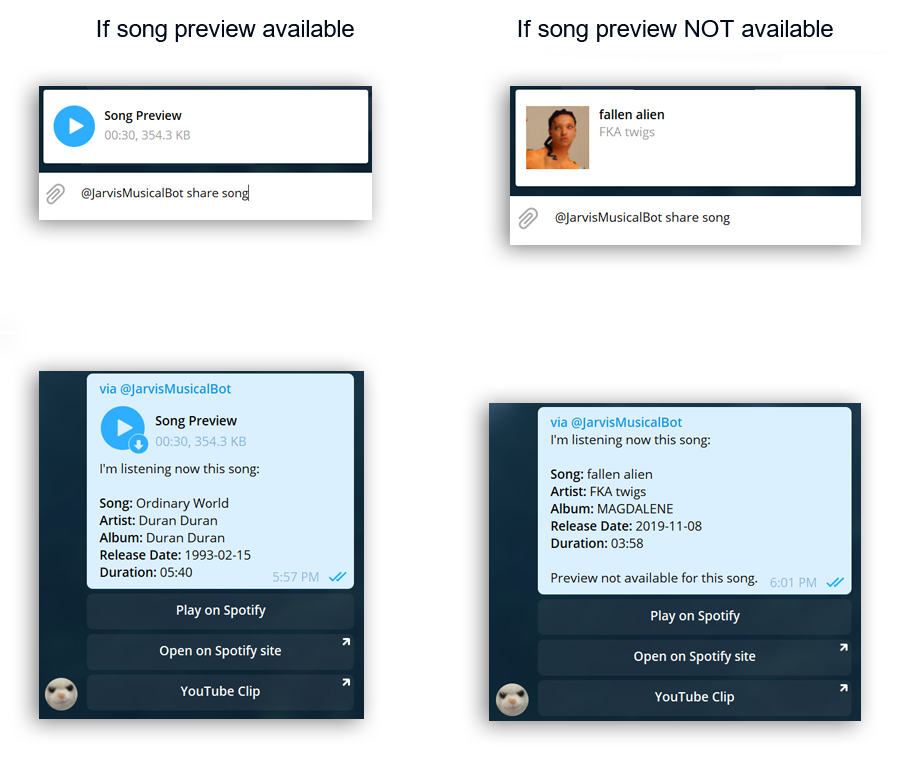
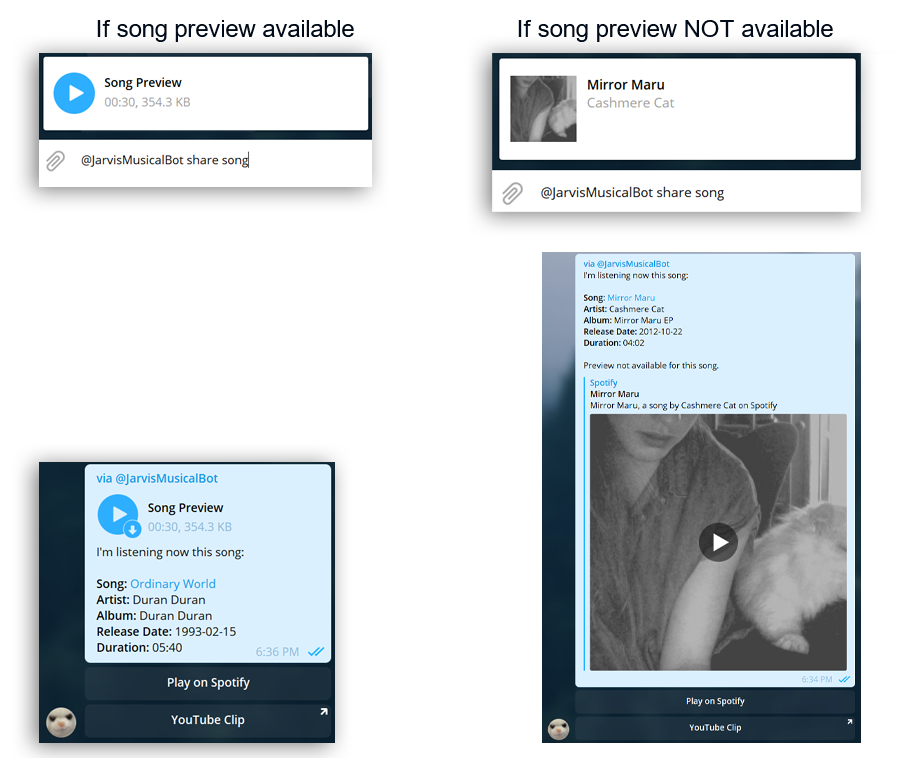
Скриншоты!

diff --git a/spotify_Module/bot_Spotify_Sender.py b/spotify_Module/bot_Spotify_Sender.py
@@ -525,20 +525,21 @@ def share_Inline_NowPlaying(inline_ID, playing_Data, language_Name):
 
     song_ID = playing_Data["song_ID"]
     play_On_Spotify = telebot.types.InlineKeyboardButton(text=language_Vocabluary[language_Name]["keyboard_Buttons"]["menu_Buttons"]["play_On_Spotify"], callback_data=f"player#play#track#{song_ID}")
-    open_On_Spotify = telebot.types.InlineKeyboardButton(text=language_Vocabluary[language_Name]["keyboard_Buttons"]["menu_Buttons"]["open_On_Spotify"], url=playing_Data["external_URL"])
     keyboard.add(play_On_Spotify)
-    keyboard.add(open_On_Spotify)
 
     if playing_Data["youtube_URL"]: #Если клип песни есть, создаем кнопку
         youtube_Button = telebot.types.InlineKeyboardButton(text=language_Vocabluary[language_Name]["keyboard_Buttons"]["menu_Buttons"]["youtube_Clip"], url=playing_Data["youtube_URL"])
         keyboard.add(youtube_Button)
 
     nowPlaying_Info = {}
-
     artists_Enum = ", ".join(playing_Data["artists"])
+    song_Link = playing_Data["external_URL"]
+    song_Name = playing_Data["song_Name"]
+    html_Link = f'<a href="{song_Link}">{song_Name}</a>'
+
+    nowPlaying_Info["song_Name"] = language_Vocabluary[language_Name]["chat_Messages"]["metadata"]["song"] + html_Link + "\n"
     nowPlaying_Info["artists"] = language_Vocabluary[language_Name]["chat_Messages"]["metadata"]["artist"] + artists_Enum + "\n"
     nowPlaying_Info["album_Name"] = language_Vocabluary[language_Name]["chat_Messages"]["metadata"]["album"] + playing_Data["album_Name"] + "\n"
-    nowPlaying_Info["song_Name"] = language_Vocabluary[language_Name]["chat_Messages"]["metadata"]["song"] + playing_Data["song_Name"] + "\n"
     nowPlaying_Info["release_date"] = language_Vocabluary[language_Name]["chat_Messages"]["metadata"]["release_date"] + playing_Data["release_Date"] + "\n"    
     nowPlaying_Info["song_Duration"] = language_Vocabluary[language_Name]["chat_Messages"]["metadata"]["duration"] + time.strftime("%M:%S", time.gmtime(playing_Data["song_Duration"] / 1000))
     
